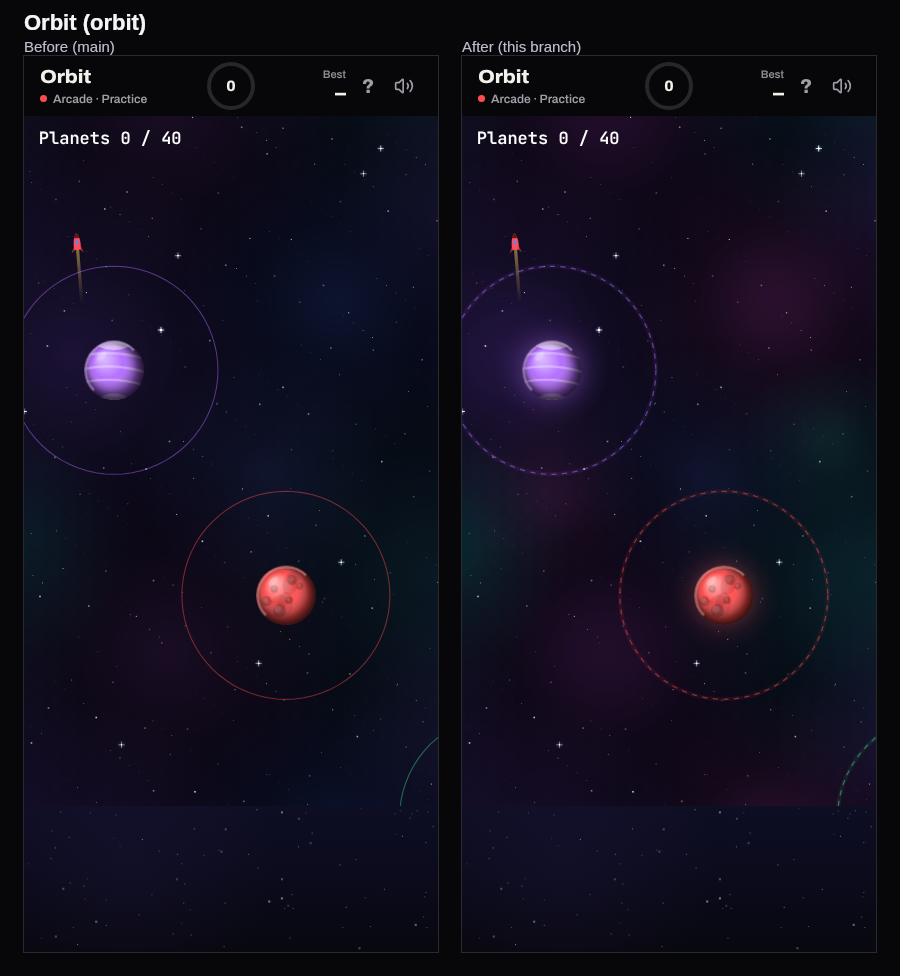
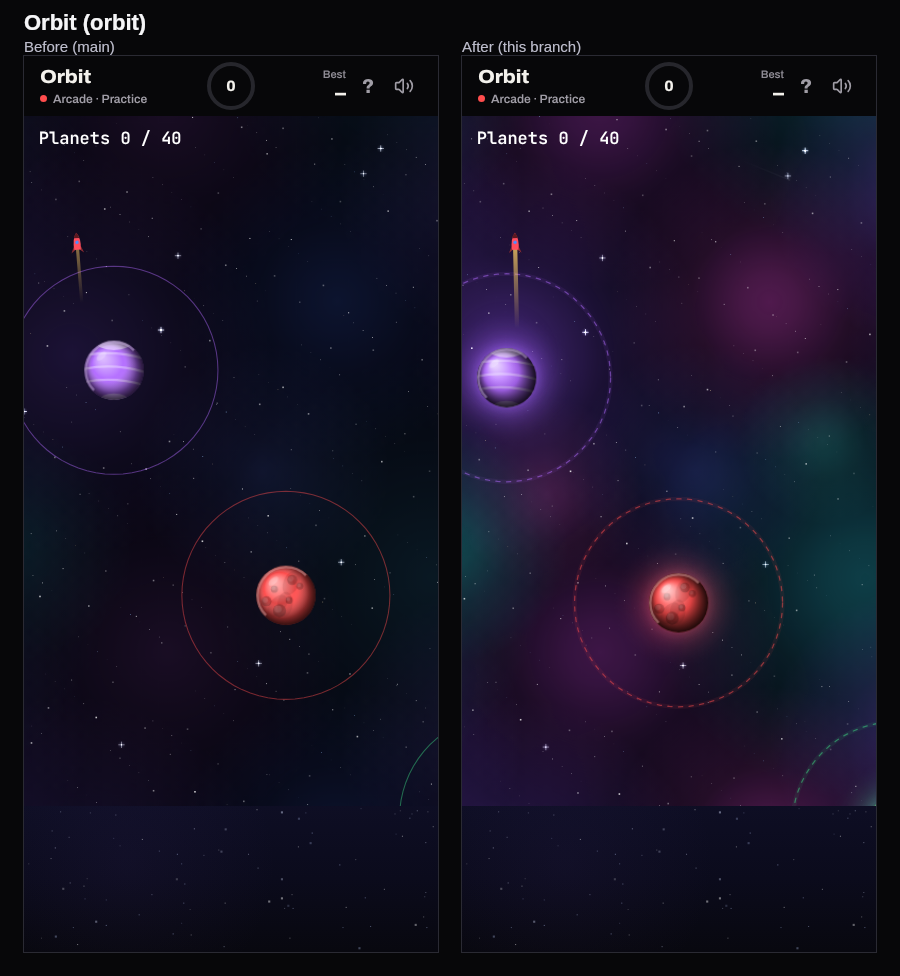
Polish A4: Orbit and Tilt pushed further after review
Display only, no stamps.
- Orbit: nebula at about twice the strength, clear sphere shading (lit side,
  terminator, night side), a stronger atmosphere glow, a longer, brighter
  flame and trail.
- Tilt: a brighter lamplight pool and a side vignette (faded out at the
  world's top and bottom so the board's box never shows against the fill),
  a deeper drop shadow, a visible rim bevel, deeper carved walls, a stronger
  star glow.
Before/after sheets and the overview regenerated.

Claude-Session: https://claude.ai/code/session_01WNxXBrkKwE5ss6jAtKu8BC

diff --git a/src/lib/arcade/tiltArt.renderer.ts b/src/lib/arcade/tiltArt.renderer.ts
@@ -186,12 +186,43 @@ function drawTableDressing(c: CanvasRenderingContext2D): void {
     c.bezierCurveTo(TILT_WORLD_W * 0.3, y + ((h >>> 5) % 7) - 3, TILT_WORLD_W * 0.7, y - ((h >>> 9) % 5) + 2, TILT_WORLD_W, y + 1);
     c.stroke();
   }
-  const pool = c.createRadialGradient(CX - 30, CY - 50, 20, CX - 30, CY - 50, 250);
-  pool.addColorStop(0, "rgba(255,206,130,0.24)");
-  pool.addColorStop(0.6, "rgba(255,190,110,0.1)");
+  // The lamplight and the vignette are painted on their own layer, which fades out over the 48 px
+  // nearest the world's top and bottom edges: those edges meet the screen fill's plain oak, so the
+  // board's box never shows.
+  const K = 2;
+  const layer = artCanvas(TILT_WORLD_W * K, TILT_WORLD_H * K);
+  const l = layer && (artContext(layer) as CanvasRenderingContext2D | null);
+  const target = l ?? c;
+  if (l) l.scale(K, K);
+  const pool = target.createRadialGradient(CX - 20, CY - 40, 20, CX - 20, CY - 40, 300);
+  pool.addColorStop(0, "rgba(255,214,140,0.5)");
+  pool.addColorStop(0.45, "rgba(255,200,120,0.26)");
+  pool.addColorStop(0.8, "rgba(255,190,110,0.06)");
   pool.addColorStop(1, "rgba(255,190,110,0)");
-  c.fillStyle = pool;
-  c.fillRect(0, 12, TILT_WORLD_W, TILT_WORLD_H - 24);
+  target.fillStyle = pool;
+  target.fillRect(0, 0, TILT_WORLD_W, TILT_WORLD_H);
+  // A darker vignette towards the sides (an ellipse taller than it is wide).
+  target.save();
+  target.translate(CX, CY);
+  target.scale(1, 1.6);
+  const vignette = target.createRadialGradient(0, 0, 120, 0, 0, 262);
+  vignette.addColorStop(0, "rgba(40,20,6,0)");
+  vignette.addColorStop(0.6, "rgba(40,20,6,0.12)");
+  vignette.addColorStop(1, "rgba(40,20,6,0.38)");
+  target.fillStyle = vignette;
+  target.fillRect(-CX, -CY / 1.6, TILT_WORLD_W, TILT_WORLD_H / 1.6);
+  target.restore();
+  if (l && layer) {
+    const fade = l.createLinearGradient(0, 0, 0, TILT_WORLD_H);
+    fade.addColorStop(0, "rgba(0,0,0,0)");
+    fade.addColorStop(48 / TILT_WORLD_H, "rgba(0,0,0,1)");
+    fade.addColorStop(1 - 48 / TILT_WORLD_H, "rgba(0,0,0,1)");
+    fade.addColorStop(1, "rgba(0,0,0,0)");
+    l.globalCompositeOperation = "destination-in";
+    l.fillStyle = fade;
+    l.fillRect(0, 0, TILT_WORLD_W, TILT_WORLD_H);
+    c.drawImage(layer as CanvasImageSource, 0, 0, TILT_WORLD_W, TILT_WORLD_H);
+  }
   c.restore();
 }
 
@@ -199,12 +230,13 @@ function drawTableDressing(c: CanvasRenderingContext2D): void {
 function drawDiscBed(ctx: CanvasRenderingContext2D): void {
   // Polish G: the disc sits in a carved groove in the board, casting a soft shadow down-right.
   // Polish A4: a deeper drop shadow under it.
-  const drop = ctx.createRadialGradient(5, 7, TILT_DISC_R - 10, 5, 7, TILT_DISC_R + 11);
-  drop.addColorStop(0, "rgba(30,14,4,0.6)");
-  drop.addColorStop(1, "rgba(30,14,4,0)");
+  const drop = ctx.createRadialGradient(8, 6, TILT_DISC_R - 12, 8, 6, TILT_DISC_R + 13);
+  drop.addColorStop(0, "rgba(24,10,2,0.85)");
+  drop.addColorStop(0.5, "rgba(24,10,2,0.4)");
+  drop.addColorStop(1, "rgba(24,10,2,0)");
   ctx.fillStyle = drop;
   ctx.beginPath();
-  ctx.arc(5, 7, TILT_DISC_R + 11, 0, Math.PI * 2);
+  ctx.arc(8, 6, TILT_DISC_R + 13, 0, Math.PI * 2);
   ctx.fill();
   const groove = ctx.createRadialGradient(3, 4, TILT_DISC_R - 4, 3, 4, TILT_DISC_R + 12);
   groove.addColorStop(0, "rgba(40,20,6,0.55)");
@@ -216,21 +248,28 @@ function drawDiscBed(ctx: CanvasRenderingContext2D): void {
   // Disc rim: darker wood ring just outside the sim's disc, bevelled (lit upper left).
   ctx.fillStyle = TOY_WOOD_DARK;
   ctx.beginPath();
-  ctx.arc(0, 0, TILT_DISC_R + 4, 0, Math.PI * 2);
+  ctx.arc(0, 0, TILT_DISC_R + 6, 0, Math.PI * 2);
   ctx.fill();
+  // The bevel: a bright lit face on the upper left, a dark one on the lower right.
   const bevel = ctx.createLinearGradient(-TILT_DISC_R, -TILT_DISC_R, TILT_DISC_R, TILT_DISC_R);
-  bevel.addColorStop(0, "rgba(255,226,180,0.55)");
-  bevel.addColorStop(0.5, "rgba(255,226,180,0)");
-  bevel.addColorStop(1, "rgba(20,8,2,0.5)");
+  bevel.addColorStop(0, "rgba(255,236,196,0.95)");
+  bevel.addColorStop(0.35, "rgba(255,226,180,0.35)");
+  bevel.addColorStop(0.6, "rgba(20,8,2,0.15)");
+  bevel.addColorStop(1, "rgba(20,8,2,0.7)");
   ctx.strokeStyle = bevel;
-  ctx.lineWidth = 3;
+  ctx.lineWidth = 4;
   ctx.beginPath();
-  ctx.arc(0, 0, TILT_DISC_R + 2.4, 0, Math.PI * 2);
+  ctx.arc(0, 0, TILT_DISC_R + 3.4, 0, Math.PI * 2);
   ctx.stroke();
-  ctx.lineWidth = 1.5;
-  ctx.strokeStyle = "rgba(255,220,170,0.35)";
+  ctx.lineWidth = 1.2;
+  ctx.strokeStyle = "rgba(255,246,220,0.85)";
   ctx.beginPath();
-  ctx.arc(0, 0, TILT_DISC_R + 1.2, Math.PI * 0.9, Math.PI * 1.7);
+  ctx.arc(0, 0, TILT_DISC_R + 4.8, Math.PI * 0.95, Math.PI * 1.55);
+  ctx.stroke();
+  ctx.lineWidth = 1;
+  ctx.strokeStyle = "rgba(20,8,2,0.6)";
+  ctx.beginPath();
+  ctx.arc(0, 0, TILT_DISC_R + 0.6, 0, Math.PI * 2);
   ctx.stroke();
 }
 
@@ -270,12 +309,13 @@ function drawStar(ctx: CanvasRenderingContext2D, x: number, y: number, r: number
   ctx.translate(x, y);
   ctx.rotate(-rot);
   // Polish A4: a warm glow round the star (light only).
-  const glow = ctx.createRadialGradient(0, 0, r * 0.3, 0, 0, r * 1.9);
-  glow.addColorStop(0, "rgba(255,226,90,0.55)");
+  const glow = ctx.createRadialGradient(0, 0, r * 0.2, 0, 0, r * 2.6);
+  glow.addColorStop(0, "rgba(255,240,140,0.9)");
+  glow.addColorStop(0.4, "rgba(255,220,80,0.45)");
   glow.addColorStop(1, "rgba(255,210,63,0)");
   ctx.fillStyle = glow;
   ctx.beginPath();
-  ctx.arc(0, 0, r * 1.9, 0, Math.PI * 2);
+  ctx.arc(0, 0, r * 2.6, 0, Math.PI * 2);
   ctx.fill();
   ctx.beginPath();
   for (let i = 0; i < 10; i++) {
@@ -381,27 +421,27 @@ function drawStrips(ctx: CanvasRenderingContext2D, m: Maze, lite: boolean): void
   // top edge; the soft outer shadow and the faint highlight are skipped (the strips' footprint is unchanged).
   ctx.lineCap = "round";
   if (!lite) {
-    ctx.strokeStyle = "rgba(30,15,5,0.22)";
-    ctx.lineWidth = 4;
-    walls(ctx, m, o, 2, 2.6);
+    ctx.strokeStyle = "rgba(30,15,5,0.35)";
+    ctx.lineWidth = 4.5;
+    walls(ctx, m, o, 2.2, 2.9);
   }
   // Polish A4: deeper carving: a darker edge on the shadow side and a brighter lit edge.
-  ctx.strokeStyle = "rgba(30,15,5,0.5)";
+  ctx.strokeStyle = "rgba(30,15,5,0.7)";
   ctx.lineWidth = 3;
-  walls(ctx, m, o, 1.2, 1.6);
+  walls(ctx, m, o, 1.4, 1.9);
   ctx.strokeStyle = STRIP;
   ctx.lineWidth = 3;
   walls(ctx, m, o, 0, 0);
-  ctx.strokeStyle = "rgba(60,30,10,0.55)";
-  ctx.lineWidth = 0.8;
-  walls(ctx, m, o, 0.8, 0.8);
-  ctx.strokeStyle = STRIP_TOP;
+  ctx.strokeStyle = "rgba(50,24,8,0.8)";
   ctx.lineWidth = 1;
+  walls(ctx, m, o, 0.9, 0.9);
+  ctx.strokeStyle = STRIP_TOP;
+  ctx.lineWidth = 1.2;
   walls(ctx, m, o, -0.5, -0.5);
   if (!lite) {
-    ctx.strokeStyle = "rgba(255,236,200,0.6)";
-    ctx.lineWidth = 0.7;
-    walls(ctx, m, o, -0.9, -0.9);
+    ctx.strokeStyle = "rgba(255,240,210,0.85)";
+    ctx.lineWidth = 0.9;
+    walls(ctx, m, o, -1, -1);
   }
 }
 
@@ -510,9 +550,9 @@ function drawWorld(ctx: CanvasRenderingContext2D, state: TiltState, size: Canvas
     ctx.save();
     ctx.rotate(-rot);
     const gloss = ctx.createRadialGradient(-TILT_DISC_R * 0.45, -TILT_DISC_R * 0.5, 10, 0, 0, TILT_DISC_R);
-    gloss.addColorStop(0, "rgba(255,236,196,0.34)");
+    gloss.addColorStop(0, "rgba(255,236,196,0.46)");
     gloss.addColorStop(0.6, "rgba(255,246,220,0)");
-    gloss.addColorStop(1, "rgba(60,30,10,0.22)");
+    gloss.addColorStop(1, "rgba(60,30,10,0.32)");
     ctx.fillStyle = gloss;
     ctx.beginPath();
     ctx.arc(0, 0, TILT_DISC_R, 0, Math.PI * 2);

diff --git a/src/lib/arcade/orbit.renderer.ts b/src/lib/arcade/orbit.renderer.ts
@@ -212,10 +212,12 @@ export function drawPlanet(ctx: CanvasRenderingContext2D, x: number, y: number, 
   }
   // Lit side (upper left) and dark limb.
   const shade = ctx.createRadialGradient(x - r * 0.4, y - r * 0.45, r * 0.1, x, y, r * 1.05);
-  shade.addColorStop(0, "rgba(255,255,255,0.35)");
-  shade.addColorStop(0.45, "rgba(255,255,255,0)");
-  shade.addColorStop(0.8, "rgba(0,0,0,0.35)");
-  shade.addColorStop(1, "rgba(0,0,0,0.75)");
+  // Polish A4: clear sphere shading: a bright lit side, a soft terminator and a dark night side.
+  shade.addColorStop(0, "rgba(255,255,255,0.55)");
+  shade.addColorStop(0.3, "rgba(255,255,255,0.12)");
+  shade.addColorStop(0.55, "rgba(0,0,0,0.12)");
+  shade.addColorStop(0.8, "rgba(0,0,0,0.55)");
+  shade.addColorStop(1, "rgba(0,0,0,0.88)");
   ctx.fillStyle = shade;
   ctx.fillRect(x - r, y - r, r * 2, r * 2);
   // Atmosphere: a thin lit rim just inside the edge, and a soft highlight.
@@ -252,17 +254,18 @@ function nebulaSprite(): HTMLCanvasElement | null {
   if (!c) return (nebulaTile = null);
   c.scale(2, 2);
   const T = NEBULA_TILE;
-  // Polish A4 (25 Oct 2026, display only): richer purple, magenta and teal clouds, each with a brighter heart.
+  // Polish A4 (25 Oct 2026, display only): richer purple, magenta and teal clouds, each with a brighter heart
+  // (about twice main's strength, still soft: every cloud fades to nothing at its edge).
   const clouds = [
-    [80, 120, 190, "128,70,220", 0.24],
-    [330, 70, 150, "214,64,190", 0.18],
-    [420, 330, 210, "30,170,180", 0.17],
-    [170, 400, 170, "190,60,200", 0.15],
-    [260, 230, 120, "90,110,255", 0.12],
-    [470, 480, 140, "128,70,220", 0.17],
-    [30, 300, 110, "36,190,190", 0.14],
-    [120, 250, 90, "240,90,200", 0.1],
-    [380, 200, 80, "60,210,200", 0.1],
+    [80, 120, 190, "128,70,220", 0.46],
+    [330, 70, 150, "214,64,190", 0.36],
+    [420, 330, 210, "30,170,180", 0.34],
+    [170, 400, 170, "190,60,200", 0.3],
+    [260, 230, 120, "90,110,255", 0.22],
+    [470, 480, 140, "128,70,220", 0.34],
+    [30, 300, 110, "36,190,190", 0.28],
+    [120, 250, 90, "240,90,200", 0.2],
+    [380, 200, 80, "60,210,200", 0.2],
   ] as const;
   for (const [cx, cy, r, rgb, a] of clouds)
     for (const dx of [-T, 0, T])
@@ -317,7 +320,7 @@ interface ShipMemory {
   points: { x: number; y: number; tick: number }[];
 }
 const shipMemories = new WeakMap<object, ShipMemory>();
-const TRAIL_POINTS = 16;
+const TRAIL_POINTS = 22;
 const CAPTURE_GLOW_MS = 700;
 
 function presentationNow(): number {
@@ -347,7 +350,7 @@ function observeShip(ctx: object, state: { tick: number; captured: number; x: nu
   // A respawn or a black-hole jump teleports the ship: start the trail again.
   if (last && Math.hypot(x - last.x, y - last.y) > 40) m.points = [];
   m.points.push({ x, y, tick: state.tick });
-  while (m.points.length > TRAIL_POINTS || (m.points[0] && state.tick - m.points[0].tick > 24)) m.points.shift();
+  while (m.points.length > TRAIL_POINTS || (m.points[0] && state.tick - m.points[0].tick > 32)) m.points.shift();
   return m;
 }
 
@@ -362,9 +365,9 @@ function drawShipTrail(ctx: CanvasRenderingContext2D, m: ShipMemory, camX: numbe
     const a = pts[i - 1]!;
     const b = pts[i]!;
     const k = i / (pts.length - 1);
-    ctx.globalAlpha = 0.6 * k * k;
+    ctx.globalAlpha = 0.9 * k * k;
     ctx.strokeStyle = k > 0.85 ? "#FFE3B0" : k > 0.6 ? "#DDF0FF" : "#7FB8FF";
-    ctx.lineWidth = 0.6 + 2.6 * k;
+    ctx.lineWidth = 1 + 3.6 * k;
     ctx.beginPath();
     ctx.moveTo(a.x - camX, a.y - camY);
     ctx.lineTo(b.x - camX, b.y - camY);
@@ -540,8 +543,9 @@ function drawOrbitPaths(ctx: CanvasRenderingContext2D, state: { planets: Planet[
 
 /** A planet's soft atmosphere: a glow in its colour just past the disc, behind it (one cached glow sprite). */
 function drawAtmosphere(ctx: CanvasRenderingContext2D, x: number, y: number, r: number, colour: string): void {
-  drawFxGlow(ctx, colour, x, y, r * 1.7 + 8, 0.6);
-  drawFxGlow(ctx, "#DDEBFF", x, y, r * 1.2 + 3, 0.18);
+  drawFxGlow(ctx, colour, x, y, r * 1.9 + 10, 0.85);
+  drawFxGlow(ctx, colour, x, y, r * 1.3 + 4, 0.55);
+  drawFxGlow(ctx, "#DDEBFF", x, y, r * 1.15 + 3, 0.25);
   ctx.globalAlpha = 1;
 }
 
@@ -592,11 +596,11 @@ function drawAmbientShootingStar(ctx: CanvasRenderingContext2D, tick: number, w:
 function drawRocketFlame(ctx: CanvasRenderingContext2D, flying: number, since: number, tick: number, still: boolean): void {
   const flicker = still ? 1 : 0.8 + 0.2 * Math.sin(tick * 2.3);
   const boost = flying > 0 && since >= 0 && since < 24 ? (24 - since) * 0.35 : 0;
-  const flame = ((flying > 0 ? 8 : 5) + boost) * flicker;
+  const flame = ((flying > 0 ? 13 : 9) + boost) * flicker;
   if (!arcadeReducedEffects()) {
     ctx.save();
     ctx.globalCompositeOperation = "lighter";
-    drawFxGlow(ctx, "#FF9A3C", -7, 0, 6 + boost * 0.4, 0.5);
+    drawFxGlow(ctx, "#FF9A3C", -8, 0, 10 + boost * 0.5, 0.85);
     ctx.restore();
   }
   const fire = ctx.createLinearGradient(-6, 0, -6 - flame, 0);
@@ -605,9 +609,9 @@ function drawRocketFlame(ctx: CanvasRenderingContext2D, flying: number, since: n
   fire.addColorStop(1, "rgba(255,77,77,0)");
   ctx.fillStyle = fire;
   ctx.beginPath();
-  ctx.moveTo(-5, -3);
+  ctx.moveTo(-5, -3.6);
   ctx.quadraticCurveTo(-6 - flame * 0.6, 0, -6 - flame, 0);
-  ctx.quadraticCurveTo(-6 - flame * 0.6, 0, -5, 3);
+  ctx.quadraticCurveTo(-6 - flame * 0.6, 0, -5, 3.6);
   ctx.closePath();
   ctx.fill();
   // A white-hot core in the flame's root.
@@ -756,12 +760,12 @@ function drawOrbitArtWorld(ctx: CanvasRenderingContext2D, state: OrbitState, siz
 
   // Trail along the straight flight already flown.
   if (state.flying > 0) {
-    const back = Math.min(state.flying, 14) * (Math.hypot(state.vx, state.vy) / FP);
+    const back = Math.min(state.flying, 20) * (Math.hypot(state.vx, state.vy) / FP);
     const trail = ctx.createLinearGradient(sx, sy, sx - ux * back, sy - uy * back);
-    trail.addColorStop(0, "rgba(255,209,102,0.55)");
+    trail.addColorStop(0, "rgba(255,209,102,0.8)");
     trail.addColorStop(1, "rgba(255,209,102,0)");
     ctx.strokeStyle = trail;
-    ctx.lineWidth = 3;
+    ctx.lineWidth = 4;
     ctx.lineCap = "round";
     ctx.beginPath();
     ctx.moveTo(sx, sy);
@@ -1078,12 +1082,12 @@ function drawOrbitRev3ArtWorld(ctx: CanvasRenderingContext2D, state: OrbitRev3St
   drawShipTrail(ctx, ship, cam.x, cam.y, state.ended === 2);
 
   if (state.flying > 0) {
-    const back = Math.min(state.flying, 14) * (Math.hypot(state.vx, state.vy) / FP);
+    const back = Math.min(state.flying, 20) * (Math.hypot(state.vx, state.vy) / FP);
     const trail = ctx.createLinearGradient(sx, sy, sx - ux * back, sy - uy * back);
-    trail.addColorStop(0, "rgba(255,209,102,0.55)");
+    trail.addColorStop(0, "rgba(255,209,102,0.8)");
     trail.addColorStop(1, "rgba(255,209,102,0)");
     ctx.strokeStyle = trail;
-    ctx.lineWidth = 3;
+    ctx.lineWidth = 4;
     ctx.lineCap = "round";
     ctx.beginPath();
     ctx.moveTo(sx, sy);

diff --git a/docs/polish-batches/a4-arcade-worlds.md b/docs/polish-batches/a4-arcade-worlds.md
@@ -50,6 +50,23 @@ file, CSS, toolkit or check changed. The shared helpers are used as they are (`d
   glossy highlight; stars glow, with a gradient face and a glint; pits are deeper (shadowed inner walls, a
   lit far wall, a black core). The mazes are unchanged.
 
+## Second pass (25 Oct 2026): Orbit and Tilt pushed further
+
+Joe's review: the other four read clearly; Orbit and Tilt were still too subtle beside main.
+
+- **Orbit**: the nebula clouds at about twice the first pass's strength (still soft, each fading to
+  nothing); clear sphere shading on every planet (a bright lit side, a soft terminator, a dark night side);
+  a stronger two-layer atmosphere glow; a longer, wider flame with a bigger nozzle glow (orbiting and in
+  flight); a longer, brighter, wider trail.
+- **Tilt**: a brighter lamplight pool over the board's centre and a darker vignette towards the sides,
+  painted on their own layer that fades out over the 48 px nearest the world's top and bottom (those edges
+  meet the screen fill's plain oak, so the board's box never shows); a deeper drop shadow; a wider rim with
+  a clearly visible bevel (a bright lit face upper left, a dark one lower right, a bright outer highlight);
+  deeper carved walls (stronger shadow and dark edge, brighter lit edge); a stronger glow round the stars;
+  a warmer lamp gloss on the board.
+- Re-run for both: arcade-play-check, arcade-fill-check and arcade-lowend-check pass (at 4× slowdown
+  Tilt 43.1 fps, was 46.9; Orbit 46.7 fps, was 56.0; the floor is 30).
+
 ## Assumptions and decisions
 
 - **Wavefront's "+10" on a hit is left out.** A shape is one raw point and the HUD's 0–150 score rises by
@@ -68,7 +85,7 @@ file, CSS, toolkit or check changed. The shared helpers are used as they are (`d
 ## Checks run (all pass)
 
 arcade-play-check (the six games), arcade-fill-check (the six), arcade-lowend-check (tilt, swing, orbit:
-46.9 / 33.2 / 56.0 fps at 4×), arcade-fx-check, arcade-tuning-a-check, arcade-self-replay-check,
+46.9 / 33.2 / 56.0 fps at 4× in the first pass; 43.1 / – / 46.7 after the second), arcade-fx-check, arcade-tuning-a-check, arcade-self-replay-check,
 reveal-score-check, swing-rev8-check, snip-rev7-check, orbit-legacy-replay-check, orbit-camera-check,
 orbit-outside-belt-check, flip-bend-check, bullseye-cross-flip-tuning-check, first-paint-check,
 no-wrap-check, plus `tsc --noEmit`.
